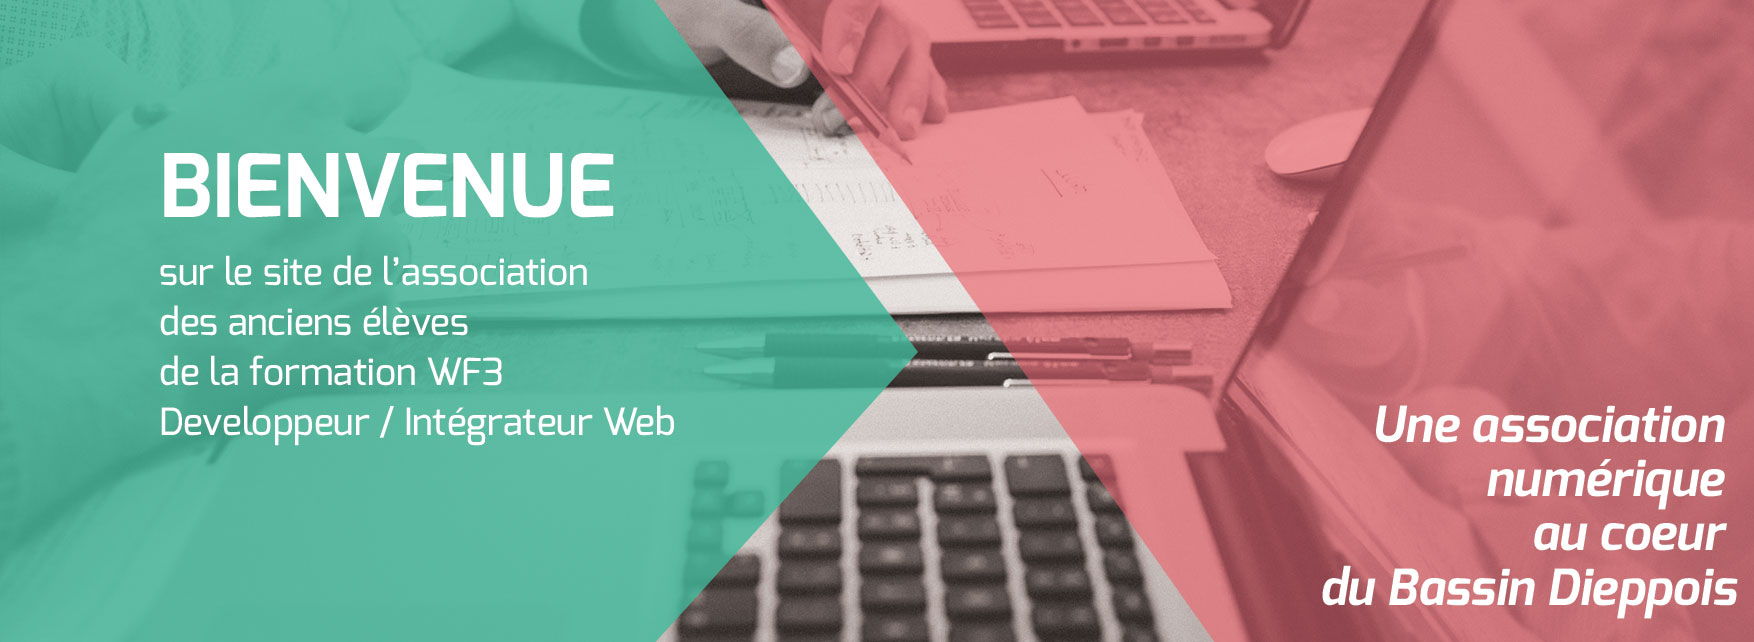
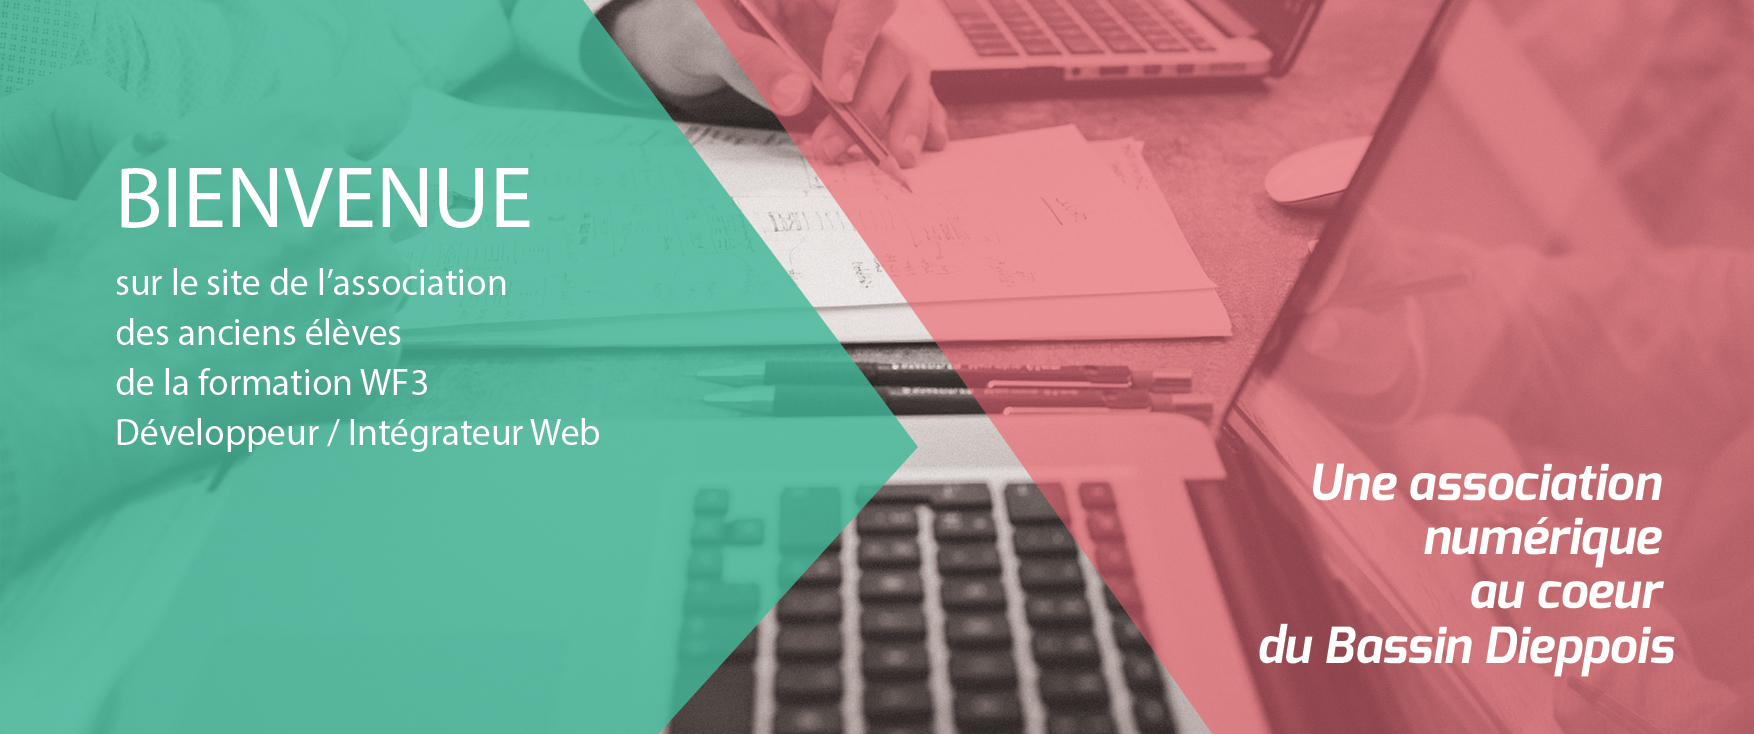
correction bannière accueil + nettoyage css + html suite à la photo en moins sur l'accueil

diff --git a/wp-content/themes/EchoPixels/css/mainstyle.css b/wp-content/themes/EchoPixels/css/mainstyle.css
@@ -296,10 +296,6 @@ section {
     width: 100%;
   }
 
-  .img_association {
-    width: 100%;
-  }
-
   .wrapper_centre {
     width: 100%;
   }

diff --git a/wp-content/themes/EchoPixels/index.php b/wp-content/themes/EchoPixels/index.php
@@ -18,15 +18,11 @@ Template Name: Accueil
  </section>
 
  <section class="bloc_bleu">
-<!--    <div class="presentation">-->
         <h1> TITRE H1 A METTRE ICI</h1>
-<!--        <div class="img_association">-->
-<!--            <img src="--><?php //echo get_template_directory_uri(); ?><!--/image/groupe_asso.jpg" alt="photo de groupe de l'association">-->
-<!--        </div>-->
         <div class="text_presentation">
             <p> A l'issue de trois mois et demi de formation aux <strong>métiers de développeurs et d'intégrateur web,</strong> d'anciens élèves de la première école de codeurs de la région dieppoise ont souhaité rester en contact, poursuivre leur formation et s'exercer à leur futur métier.</p>
             <p><strong>L'association Echo Pixels</strong> est donc née. Passerelle entre employeurs et candidats à l'emploi, entre professionnels et freelancer, elle regroupe aujourd'hui des webmaster, mais également des webdesigner et des rédacteurs web.</p>
-<!--    </div>-->
+
  </section>
 
 
